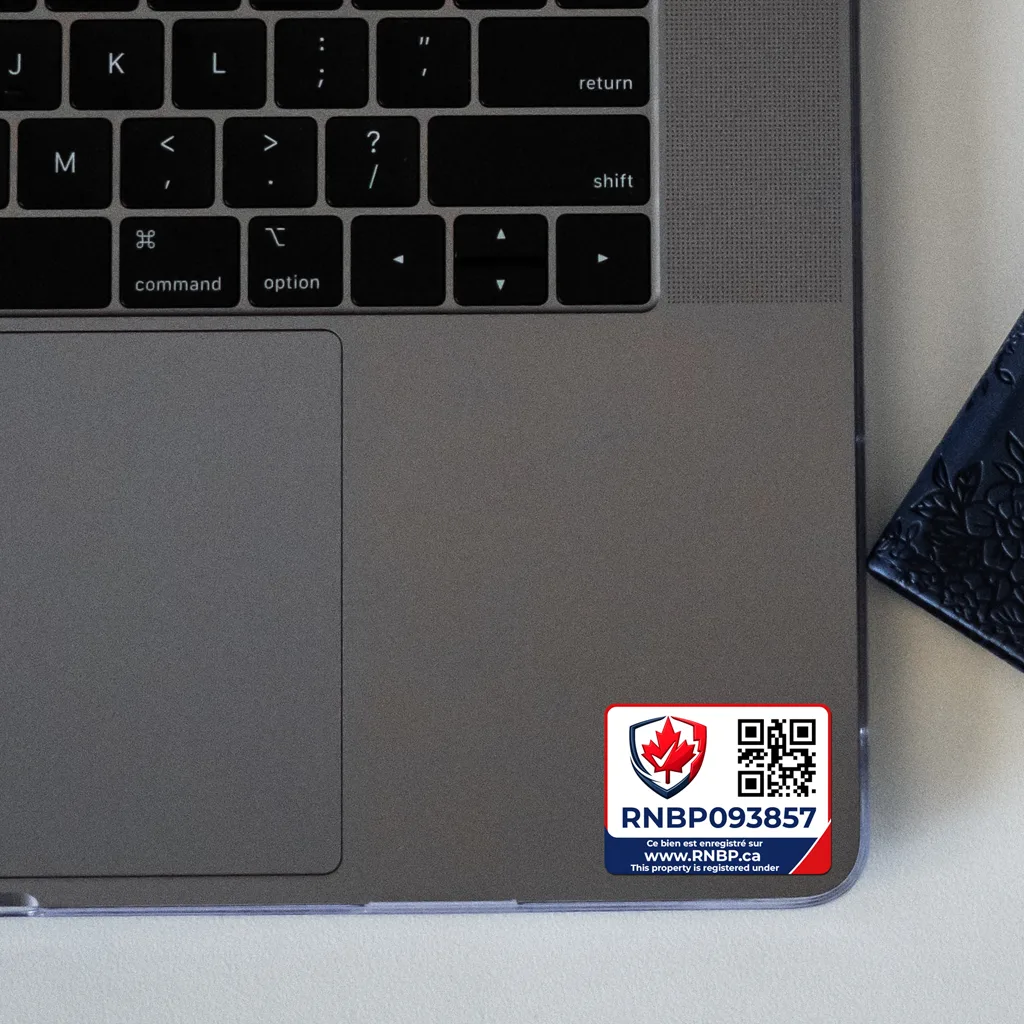
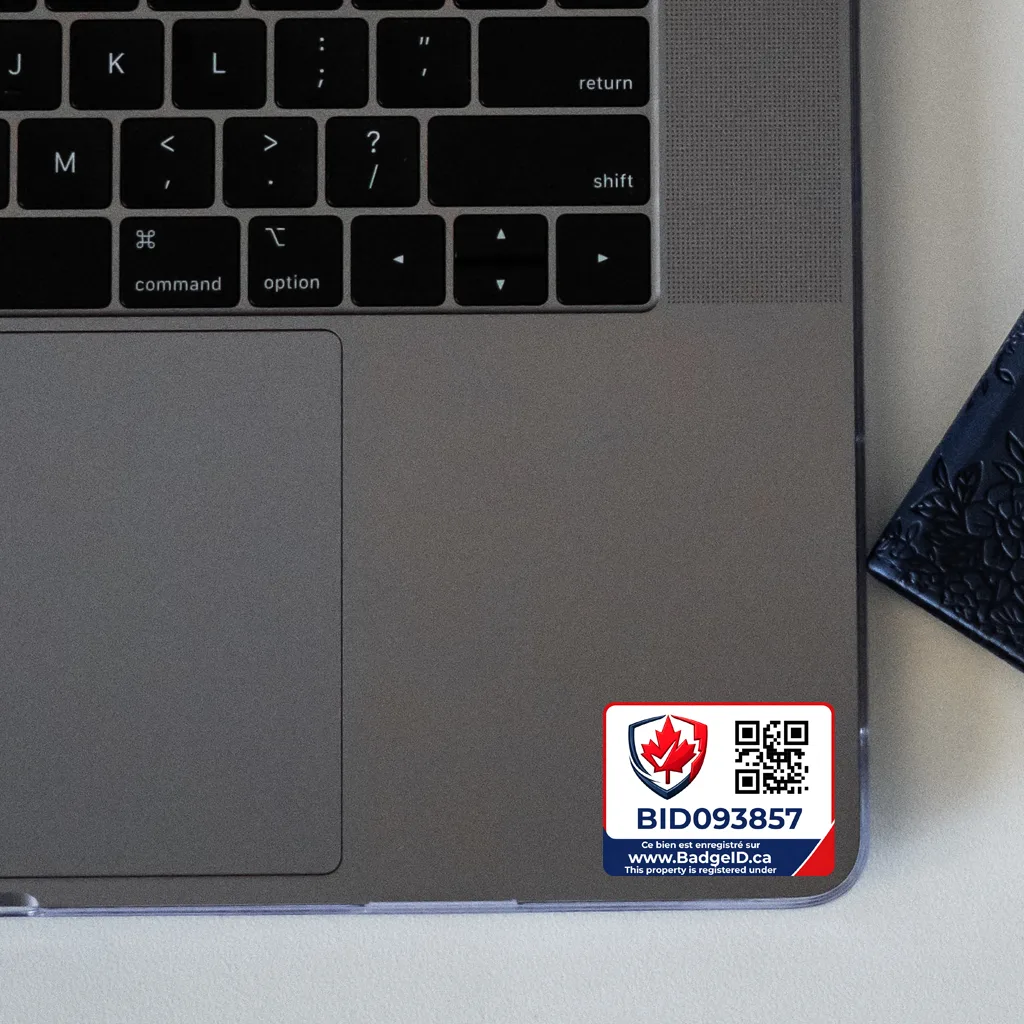
feat(brand): replace RNBP visuals with BadgeID assets
Swap remaining legacy RNBP imagery for the new BadgeID brand:
- Consolidate the 4 locale/variant logos into a single language-neutral
  logo.png (BADGEID wordmark) used in navbar, footer, and JSON-LD; drop
  the now-unused locale switching.
- Update OG share images (FR/EN), product sticker showcase images, and
  the verify-before-buy mockup (PNG sources converted to WebP).
- Refresh icon-192.png.

No DB change: shop products reference /assets/... paths directly.

Changed region(s): [[0.5625, 0.6875, 0.8438, 0.875]]

diff --git a/apps/web/src/components/layout/Footer.tsx b/apps/web/src/components/layout/Footer.tsx
@@ -15,7 +15,7 @@ function CurrentYear() {
 }
 
 export function Footer() {
-  const { t, locale } = useLanguage();
+  const { t } = useLanguage();
   const [email, setEmail] = useState("");
   const [status, setStatus] = useState<"idle" | "loading" | "success" | "error" | "unavailable">("idle");
 
@@ -42,7 +42,7 @@ export function Footer() {
         <div className="grid gap-10 lg:grid-cols-2">
           <div>
             <Link to="/" className="inline-block">
-              <img src={`/assets/logo-acronyme-${locale}.png`} alt={t.a11y.logoAlt} className="h-10" />
+              <img src="/assets/logo.png" alt={t.a11y.logoAlt} className="h-10" />
             </Link>
             <nav aria-label={t.a11y.mainNav} className="mt-8 flex flex-wrap gap-8 text-sm font-medium text-[var(--rcb-text-strong)]">
               {t.nav.items

diff --git a/apps/web/src/components/layout/Navbar.tsx b/apps/web/src/components/layout/Navbar.tsx
@@ -122,14 +122,14 @@ function AuthMobileInner({ onNav }: { onNav: () => void }) {
 }
 
 export function Navbar() {
-  const { t, locale } = useLanguage();
+  const { t } = useLanguage();
   const [menuOpen, setMenuOpen] = useState(false);
 
   return (
     <header className="sticky top-0 z-50 bg-[var(--rcb-header)]/95 backdrop-blur">
       <div className="section-shell flex min-h-20 items-center justify-between gap-6 py-3">
         <Link to="/" className="shrink-0">
-          <img src={`/assets/logo-texte-${locale}.png`} alt={t.a11y.logoAlt} className="h-10" />
+          <img src="/assets/logo.png" alt={t.a11y.logoAlt} className="h-10" />
         </Link>
 
         <nav aria-label={t.a11y.mainNav} className="hidden items-center gap-9 text-base font-medium text-[var(--rcb-text-strong)] lg:flex">

diff --git a/apps/web/functions/[[path]].ts b/apps/web/functions/[[path]].ts
@@ -355,7 +355,7 @@ function buildJsonLd(locale: "fr" | "en", path: string, domain: string): string 
       ? "Badge"
       : "Badge";
   const altName = "Badge";
-  const logoFile = locale === "fr" ? "logo-texte-fr.png" : "logo-texte-en.png";
+  const logoFile = "logo.png";
   const description =
     locale === "fr"
       ? "Badge — protégez et retrouvez vos biens de valeur."
